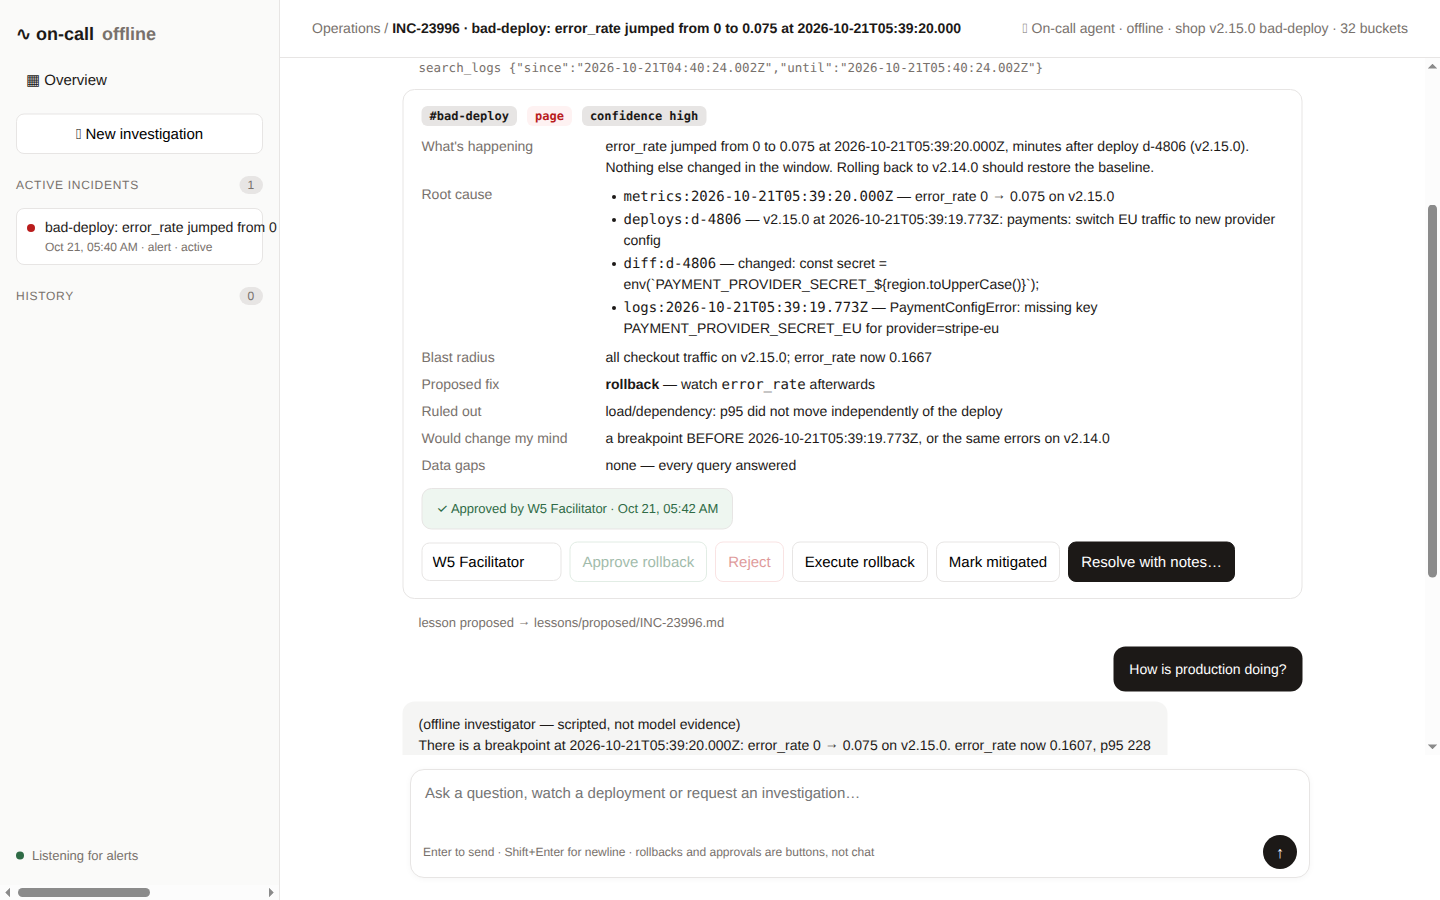
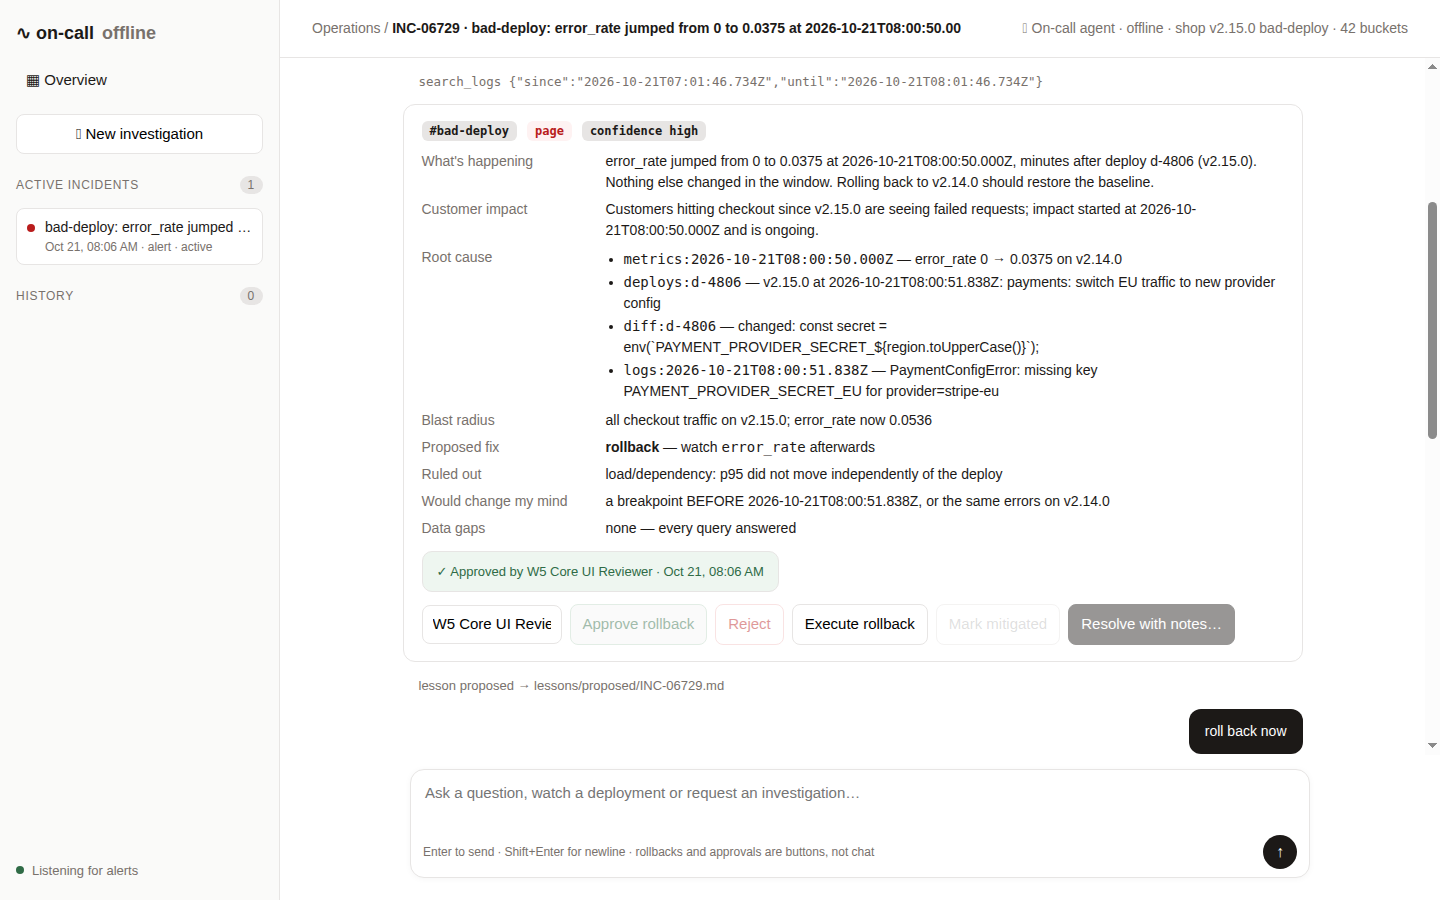
Refresh Workshop 5 console evidence

diff --git a/workshop5-slides.js b/workshop5-slides.js
@@ -723,7 +723,7 @@ window.SLIDES = [
       "Mutations are buttons, not chat.",
       "A human resolves. The agent only proposes a lesson."
     ],
-    "notes": "Within the project introduction. Show the real local console screenshot. The shop is an HTTP API, not a storefront. The console is the UI. This solved example uses live traffic and the offline scripted runtime. The live incident ID differs from fixture INC-1001. Point at the diagnosis, evidence and pending approval. Click the screenshot to inspect it at full size. The participant starter is empty until you start the shop and build the missing parts."
+    "notes": "Within the project introduction. Show the real local console screenshot. The shop is an HTTP API, not a storefront. The console is the UI. This solved example uses live traffic and the offline scripted runtime. The live incident ID differs from fixture INC-1001. Point at the diagnosis, evidence and pending approval. Click the screenshot to inspect it at full size. A fresh core starter opens with no incidents. Inject the documented bad deploy only when the live exercise begins."
   },
   {
     "title": "In production: the same rules",
@@ -906,10 +906,10 @@ window.SLIDES = [
       }
     ],
     "keyPoints": [
-      "The console opens. No telemetry is expected yet.",
-      "Build the missing rules and tools before live recovery."
+      "The health header shows live shop telemetry.",
+      "Complete list_deploys before live recovery."
     ],
-    "notes": "This is a real local console capture. A fresh starter has no incidents or approvals. npm start now starts the shop and traffic too. Check the health header rather than inferring health from an empty incident list. Refresh screenshots from the guided-console run before shipping this deck."
+    "notes": "This is a real local console capture. A fresh starter has no incidents or approvals. npm start now starts the shop and traffic too. Check the health header rather than inferring health from an empty incident list. This capture uses the core starter and the disclosed one-minute fast demo window."
   },
   {
     "title": "Break",
@@ -2120,12 +2120,12 @@ window.SLIDES = [
       },
       {
         "title": "Decide",
-        "body": "After LANDED, mark mitigated. Resolve with notes in A9."
+        "body": "After LANDED, mark mitigated, then resolve with notes."
       }
     ],
     "keyPoints": [
       "Keep traffic running for the three recovery checks.",
-      "After LANDED, mark mitigated. Resolve with notes in A9."
+      "After LANDED, mark mitigated, then resolve with notes."
     ],
     "notes": "Show the structured recovery table: metric, baseline, limit and each measured check. Full and double must both pass; only half may fail. If NOT LANDED, keep the incident active and document investigation or escalation. If LANDED, a named human marks mitigated, then resolves with notes. A successful rollback alone is insufficient. This screenshot is from a successful local run, not proof that every run lands."
   },

diff --git a/workshop5.html b/workshop5.html
@@ -1,5 +1,5 @@
 <!doctype html>
-<html lang="en"><head><meta charset="utf-8"><meta http-equiv="Cache-Control" content="no-cache, no-store, must-revalidate"><meta http-equiv="Pragma" content="no-cache"><meta http-equiv="Expires" content="0"><meta name="viewport" content="width=device-width,initial-scale=1"><meta name="theme-color" content="#06111e"><title>Workshop 5 · AI-native SDLC · Aetherlink classroom</title><meta name="description" content="AI-native SDLC workshop: build and verify a local SRE agent, from intent and contracts to read-only tools, named approval and incident recovery."><link rel="icon" href="data:,"><link rel="stylesheet" href="styles.css?v=98"><script>window.PRESENTER_PAGE = "workshop5-presenter.html";</script><script src="workshop5-slides.js?v=97" defer></script><script src="demo-fallback.js?v=93" defer></script><script src="timers.js?v=93" defer></script><script src="sessions.js?v=4" defer></script><script src="app.js?v=96" defer></script></head>
+<html lang="en"><head><meta charset="utf-8"><meta http-equiv="Cache-Control" content="no-cache, no-store, must-revalidate"><meta http-equiv="Pragma" content="no-cache"><meta http-equiv="Expires" content="0"><meta name="viewport" content="width=device-width,initial-scale=1"><meta name="theme-color" content="#06111e"><title>Workshop 5 · AI-native SDLC · Aetherlink classroom</title><meta name="description" content="AI-native SDLC workshop: build and verify a local SRE agent, from intent and contracts to read-only tools, named approval and incident recovery."><link rel="icon" href="data:,"><link rel="stylesheet" href="styles.css?v=98"><script>window.PRESENTER_PAGE = "workshop5-presenter.html";</script><script src="workshop5-slides.js?v=99" defer></script><script src="demo-fallback.js?v=93" defer></script><script src="timers.js?v=93" defer></script><script src="sessions.js?v=4" defer></script><script src="app.js?v=96" defer></script></head>
 <body><a class="skip" href="#stage">Skip to presentation</a>
 <header class="toolbar">
   <a class="brand" href="#1" aria-label="Aetherlink, slide 1"><img class="brand-mark" src="assets/aetherlink-mark.png" alt="" width="44" height="44">AETHER<span>LINK</span><small>WORLDLINE · CLASSROOM</small></a>

diff --git a/workshop5-presenter.html b/workshop5-presenter.html
@@ -93,7 +93,7 @@
       </div>
     </div>
   </div>
-  <script>window.DECK_PAGE = "workshop5.html";</script><script src="workshop5-slides.js?v=97" defer></script>
+  <script>window.DECK_PAGE = "workshop5.html";</script><script src="workshop5-slides.js?v=99" defer></script>
   <script src="timers.js?v=93" defer></script>
   <script src="presenter.js?v=94" defer></script>
 </body></html>

diff --git a/assets/workshop-5/README.md b/assets/workshop-5/README.md
@@ -5,25 +5,31 @@ an HTTP API. The visible application is the SRE console.
 
 Captured on 2026-10-21 from `RyanLisse/sre-oncall-agent`:
 
-- Starter: `workshop/start`, commit `c4b5851cdf5fae07163bf28051135c6f55172f8b`.
-- Solved: `w5-step-8-maintain`, commit `a8509b3da829a6379df53f07d7de0d8f187f4ea9`.
+- Fresh core starter and separate checkpoint packages from commit
+  `64e477a7b889c74f728652937788b21abedb13e9`.
+- Resolved capture: the same persisted incident, reloaded with the renderer
+  from `bc0094895934f5c4b9fe2d7d45c8e6d0de5d917d`. No new execution.
 - Offline scripted runtime, live local shop and traffic, no model call.
-- Detection window: `AGENT_LISTEN_WINDOW_MIN=1`, not the five-minute default.
-- Recovery watch: default timing, about two minutes.
+- Launcher: `npm start -- --fast`. One-minute detection, not the five-minute default.
+- Recovery watch: default half/full/double timing, about two minutes.
+- Viewport: 1440 × 900. No horizontal document or sidebar overflow.
 
 | Image | State |
 | --- | --- |
-| `console-start.png` | Starter console before the shop starts |
-| `console-diagnosis.png` | Live diagnosis; approval pending |
-| `console-refusal.png` | Chat refuses a rollback request |
-| `console-approval.png` | Named approval; execution is a separate action |
-| `console-landed.png` | Recovery verified; incident still active |
-| `console-resolved.png` | Human resolution notes and lesson provenance |
+| `console-start.png` | Fresh core starter; healthy shop, Active 0 and History 0 |
+| `console-diagnosis.png` | Live diagnosis with customer impact and evidence; approval pending |
+| `console-refusal.png` | Chat refuses the exact request `roll back now` |
+| `console-approval.png` | Named approval; execution remains a separate action |
+| `console-landed.png` | Observed recovery checks pass; incident still active |
+| `console-resolved.png` | Human notes and provenance persist; recovery guidance says resolved |
 
-The live incident is `INC-23996`. It is not the fixture incident `INC-1001`.
-The demo rolls back `v2.15.0` to `v2.14.0`. Evidence references are plain text.
-The solved console has no separate `customer_impact` row. It also leaves the
-Execute rollback button enabled after resolution. Do not repeat execution
-on a resolved incident; that path was not tested in this walkthrough.
+The live incident is `INC-06729`, not fixture `INC-1001`. Bad deploy
+`d-4806` changed `v2.14.0` to `v2.15.0`. One approved rollback restored
+`v2.14.0`. The observed half/full/double values were 0/0/0 against a frozen
+limit of 0.005. No retry, lowered limit or synthetic recovery state was used.
+
+The incident did not close itself. A named human marked it mitigated, then
+resolved it with notes. Approval, execution and closure controls stayed
+disabled after resolution and reload. Evidence references are plain text.
 
 Click a screenshot in the classroom deck to open the original image.
